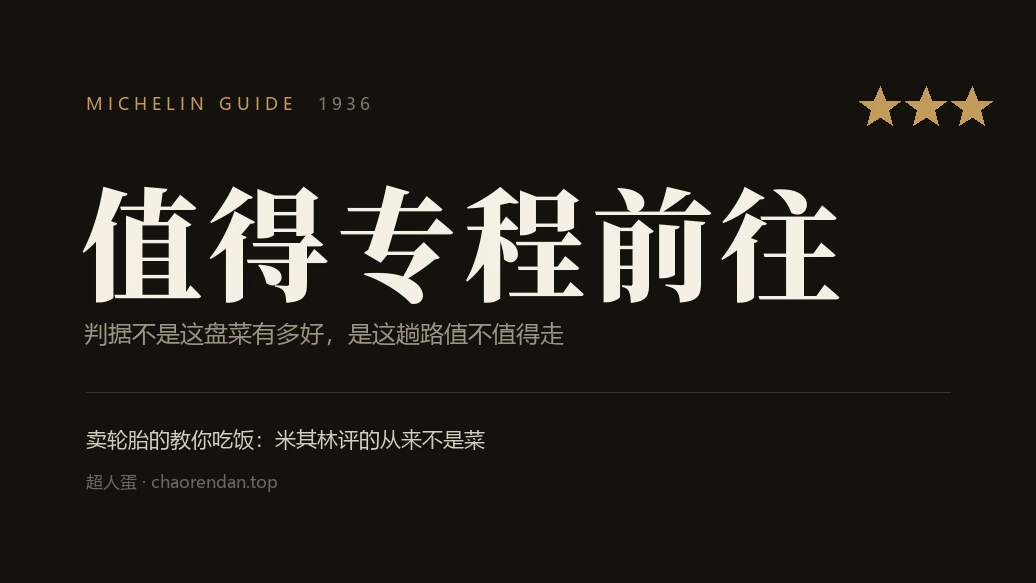
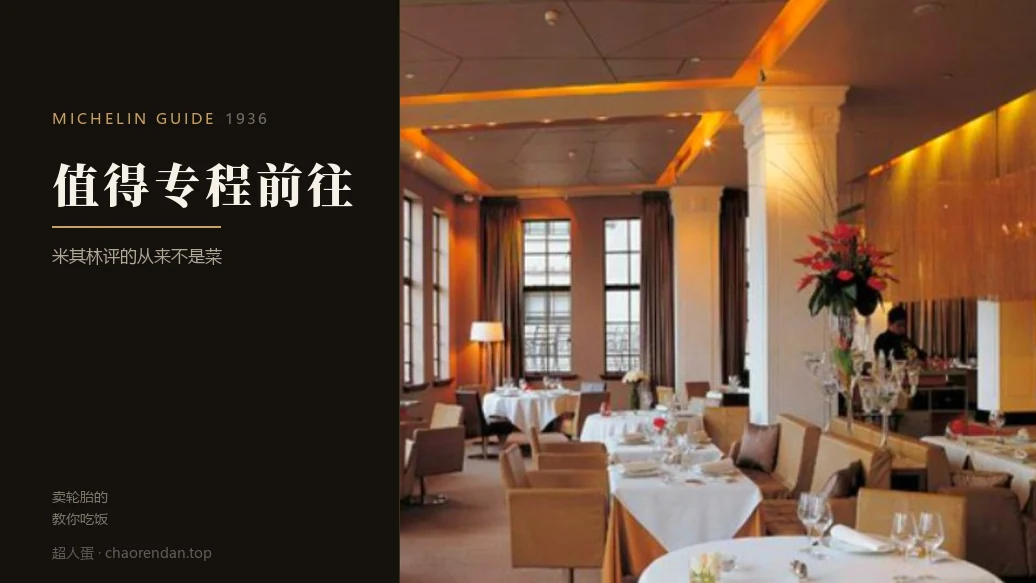
fix(blog): 米其林篇换封面——左文右图分栏，用空桌替掉纯排版

diff --git a/_posts/2026-11-04-michelin-guide-experience-form.md b/_posts/2026-11-04-michelin-guide-experience-form.md
@@ -13,8 +13,8 @@ keywords:
   - 餐饮商业
 date: 2026-11-04 10:00:00 +0800
 cover: "/assets/images/blog/michelin-journey-cover.webp"
-cover_alt: "深色底的中文排版海报：顶部金色小字「MICHELIN GUIDE 1936」与右上三颗金星，中央是巨型宋体的「值得专程前往」五个字，下方一行副题「判据不是这盘菜有多好，是这趟路值不值得走」"
-cover_caption: "三星的定义里藏着一个关于旅行的判断"
+cover_alt: "左半幅是深墨色竖栏，竖排宋体大字「值得专程前往」，上方一行金色小字「MICHELIN GUIDE 1936」，下方是副题「米其林评的从来不是菜」；右半幅是餐厅内景照片，白色桌布的长桌、深棕色皮椅、黑色窗棂与暖色灯带，角落里有一位侍者的侧影"
+cover_caption: "一张空着的桌子在等人——三星卖的不是菜，是这趟路"
 cover_width: 1036
 cover_height: 583
 lang: "zh"
